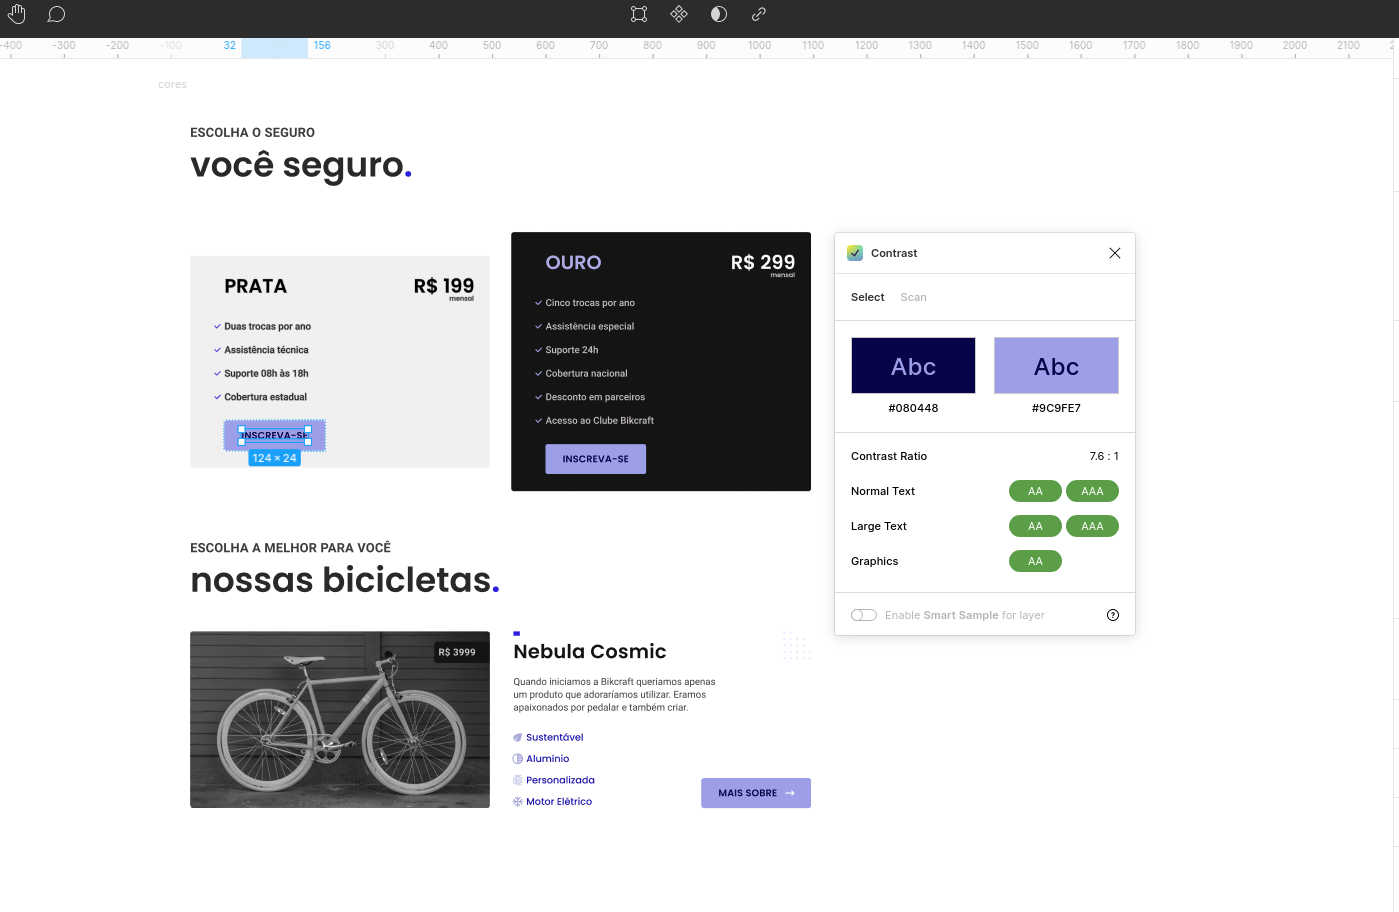
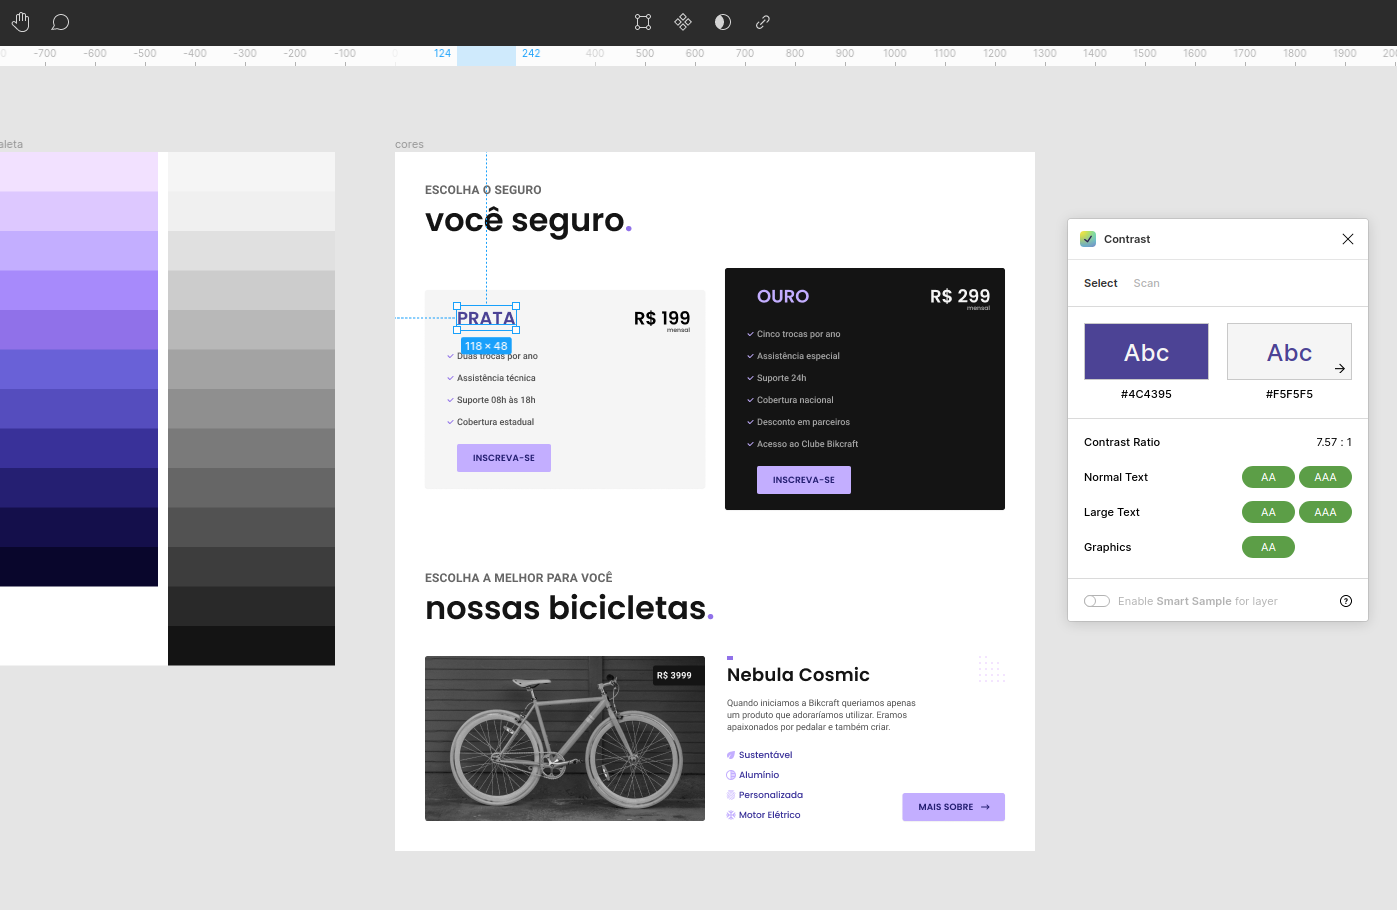
Add paleta cores

diff --git a/README.md b/README.md
@@ -30,11 +30,13 @@
 
 <h3 align="center"> 🎨 UI Design - Paleta de Cores - Prática </h3>
 
-<p> Para toda cor que decidirmos utilizar no projeto, ter variações será essencial para compor a interface.</p>
+<p> Para toda cor que decidirmos utilizar no projeto, lembrar que variação será essencial para compor a interface. A variação da cor geralmente ocorre na diagonal da matriz HSB. </p>
 
-🖌 Layout Cores - Antes/Depois
+🖌 Layout Cores
+- Antes
 <h1 align="center">  <img src="./.github/cores_antes.png" width="800px" alt="Home page"> </h1>
 
+- Depois
 <h1 align="center">  <img src="./.github/cores_depois.png" width="800px" alt="Home page"> </h1>
 
 
